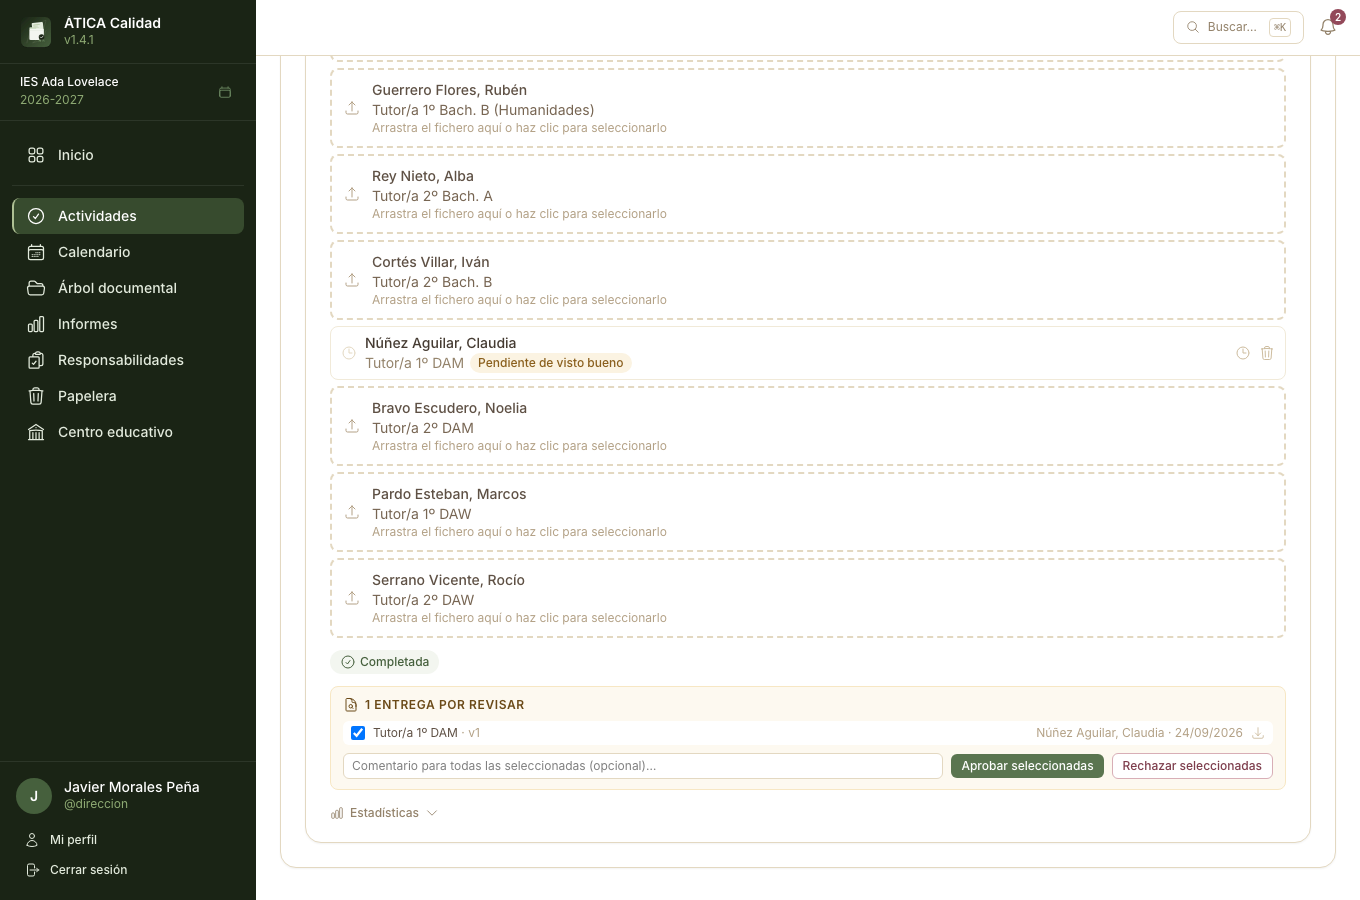
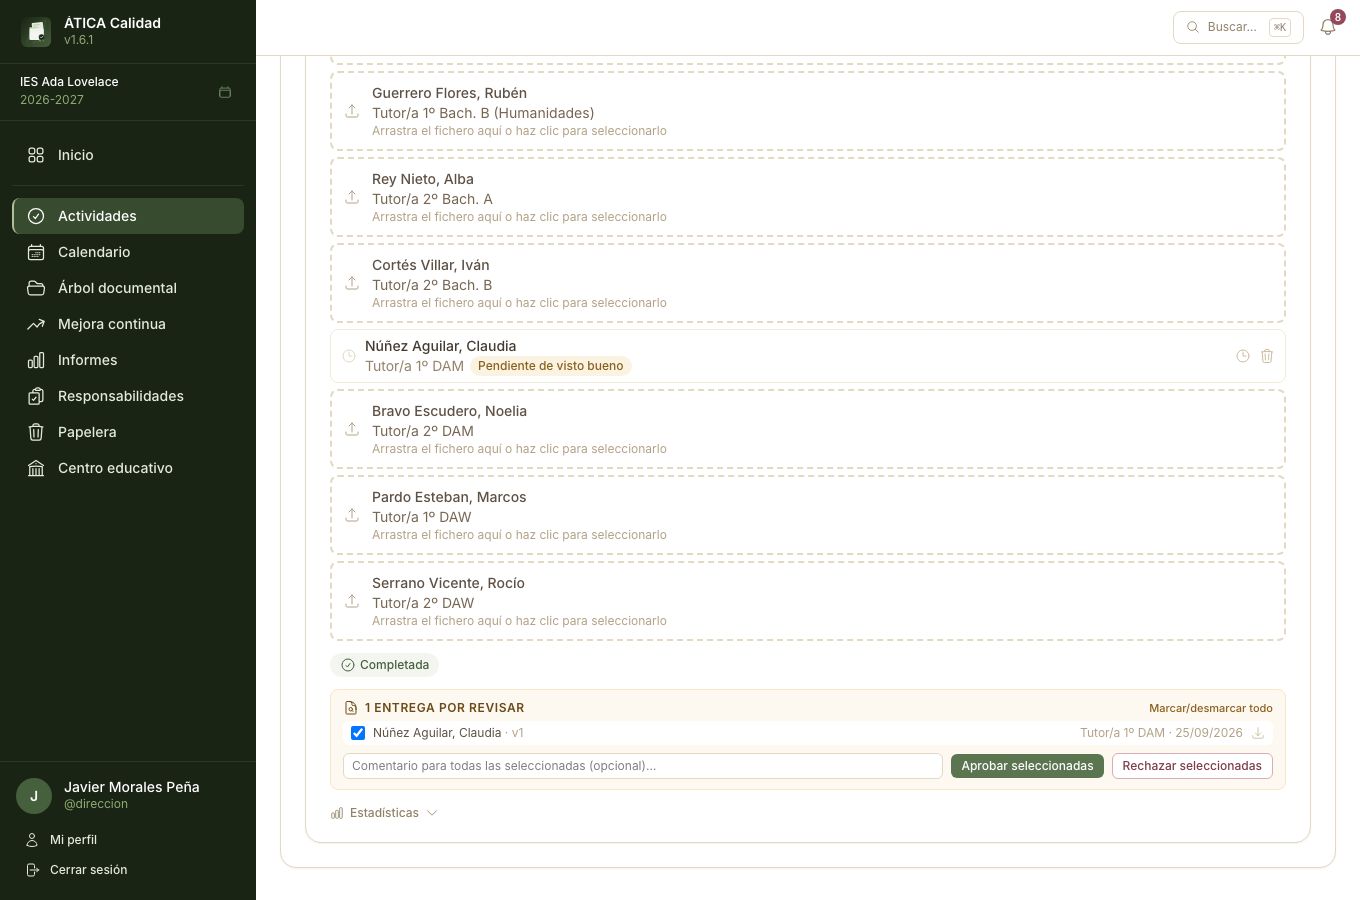
feat(activities): marcar/desmarcar todo por curso, y quién sube primero en una entrega individual
- La revisión conjunta de entregas de una actividad tiene ahora un
  botón «Marcar/desmarcar todo» por grupo (las del curso actual, y
  aparte las de cursos anteriores si queda alguna) — check-all
  controller, sin tocar el envío del formulario.
- En una actividad de ámbito individual, cada fila lleva primero a
  quien la subió (lo que de verdad distingue una entrega de otra) y el
  grupo o perfil que cubre —el mismo rótulo que ya lleva la cabecera del
  grupo— pasa al lado, en el tono discreto donde antes iba el nombre.
  Una actividad por perfil sigue mostrando primero el nombre del propio
  documento.

Claude-Session: https://claude.ai/code/session_01KHybPHgos2WmpT1hbwEeZS

diff --git a/assets/controllers/check_all_controller.js b/assets/controllers/check_all_controller.js
@@ -1,0 +1,15 @@
+import { Controller } from '@hotwired/stimulus';
+
+// A "select/deselect all" toggle for a group of checkboxes, scoped to whichever element carries
+// this controller — several independent groups on the same page (e.g. this year's pending
+// reviews and an earlier year's) each get their own instance and their own toggle button.
+export default class extends Controller {
+    static targets = ['checkbox'];
+
+    toggle() {
+        const shouldCheck = !this.checkboxTargets.every((checkbox) => checkbox.checked);
+        this.checkboxTargets.forEach((checkbox) => {
+            checkbox.checked = shouldCheck;
+        });
+    }
+}

diff --git a/tests/Integration/Controller/ActivityBulkReviewAndReminderTest.php b/tests/Integration/Controller/ActivityBulkReviewAndReminderTest.php
@@ -8,6 +8,7 @@ use App\Entity\AcademicYear;
 use App\Entity\Activity;
 use App\Entity\ActivityCategory;
 use App\Entity\ActivityCompletion;
+use App\Entity\ActivitySubmissionScope;
 use App\Entity\Document;
 use App\Entity\DocumentFile;
 use App\Entity\DocumentRevision;
@@ -130,6 +131,59 @@ final class ActivityBulkReviewAndReminderTest extends ControllerTestCase
         self::assertStringContainsString(ActivityDeadlineChecker::academicYearLabel($last), $content);
         self::assertMatchesRegularExpression('/value="' . $one->getId()->toRfc4122() . '"\s+checked/', $content);
         self::assertDoesNotMatchRegularExpression('/value="' . $two->getId()->toRfc4122() . '"\s+checked/', $content);
+        // Each group ("por revisar" and "de cursos anteriores") gets its own mark/unmark-all toggle.
+        self::assertSame(2, substr_count($content, 'data-controller="check-all"'));
+        self::assertSame(2, substr_count($content, 'data-action="check-all#toggle"'));
+        self::assertSame(2, substr_count($content, 'data-check-all-target="checkbox"'));
+    }
+
+    /**
+     * A by-profile submission's document is named for itself, and stays the primary label with the
+     * uploader as secondary — see the next test for the opposite, individual-scope case.
+     */
+    public function testByProfileSubmissionsKeepTheDocumentNameAsThePrimaryLabel(): void
+    {
+        [$centre, $activity, $reviewer, $one] = $this->reviewScenario();
+        $this->loginAs($reviewer, $centre);
+        $this->client->request('GET', '/actividades?category=' . $activity->getCategory()->getId()->toRfc4122() . '&activity=' . $activity->getId()->toRfc4122());
+        $content = (string) $this->client->getResponse()->getContent();
+
+        $namePos = strpos($content, 'subidor, Nombre');
+        $docPos  = strpos($content, '>' . $one->getDocument()->getName());
+        self::assertNotFalse($namePos);
+        self::assertNotFalse($docPos);
+        self::assertLessThan($namePos, $docPos, 'the document name comes first, the uploader after it');
+    }
+
+    /**
+     * An individual submission's document is only ever named after the role it covers (the same
+     * label the group heading above it already carries) — the uploader is what actually tells one
+     * row apart from the next, so it leads; the role moves to where the uploader used to be.
+     */
+    public function testIndividualSubmissionsLeadWithTheUploaderAndMoveTheRoleAside(): void
+    {
+        $centre   = $this->centre();
+        $category = (new ActivityCategory())->setEducationalCentre($centre)->setName('Categoría');
+        $section  = (new DocumentSection())->setEducationalCentre($centre)->setName('Sección');
+        $folder   = (new Folder())->setDocumentSection($section)->setName('Entregas');
+        $profile  = (new SpecificProfile())->setEducationalCentre($centre)->setName('Revisor');
+        $folder->addReviewProfile($profile);
+        $activity = (new Activity())->setCategory($category)->setTitle('Plan de Acción Tutorial')->setStart(1, 9)->setEnd(30, 6)->setFolder($folder)->setSubmissionScope(ActivitySubmissionScope::Individual);
+        $reviewer = $this->teacher('revisor');
+        $uploader = $this->teacher('subidor');
+        $this->persist($centre, $category, $section, $folder, $profile, $activity, $reviewer, $uploader, new SpecificProfileAssignment($profile, null, $reviewer));
+        $this->pendingRevision($folder, 'Tutor/a 1º ESO A', $uploader);
+
+        $this->loginAs($reviewer, $centre);
+        $this->client->request('GET', '/actividades?category=' . $activity->getCategory()->getId()->toRfc4122() . '&activity=' . $activity->getId()->toRfc4122());
+        $content = (string) $this->client->getResponse()->getContent();
+
+        self::assertStringContainsString(' checked', $content);
+        $namePos = strpos($content, 'subidor, Nombre');
+        $rolePos = strpos($content, 'Tutor/a 1º ESO A');
+        self::assertNotFalse($namePos);
+        self::assertNotFalse($rolePos);
+        self::assertLessThan($rolePos, $namePos, 'the uploader comes first, the role after it');
     }
 
     public function testApprovesTheTickedSubmissionsOfTheActivityAndIgnoresAnyOtherId(): void

diff --git a/docs/manual/08-actividades.md b/docs/manual/08-actividades.md
@@ -158,12 +158,18 @@ aparece encima de «Mis entregas».
 ### Revisar varias entregas a la vez {#revisar-varias-entregas}
 
 Quien revisa la carpeta de la actividad ve, además, un recuadro **«N entregas por revisar»** con
-todas las entregas pendientes de visto bueno, cada una con quién la subió, la fecha y su descarga.
-Todas vienen marcadas: basta con desmarcar las que no se quieran tocar, escribir si se quiere un
-comentario común y pulsar **Aprobar seleccionadas** o **Rechazar seleccionadas**. Rechazar pide
+todas las entregas del curso actual pendientes de visto bueno, cada una con quién la subió, la
+fecha y su descarga (en una entrega individual, quién la subió es lo primero que se ve; el grupo o
+perfil al que corresponde queda al lado, en un tono más discreto). Todas vienen marcadas: basta con
+desmarcar las que no se quieran tocar —o pulsar **Marcar/desmarcar todo**—, escribir si se quiere
+un comentario común y pulsar **Aprobar seleccionadas** o **Rechazar seleccionadas**. Rechazar pide
 confirmación, porque cada docente recibe un aviso para volver a entregarla. El efecto es el mismo
 que revisar una por una: cambia la versión en vigor, se anota en el registro de actividad y se avisa
 a quien la subió.
+
+Si queda alguna pendiente de un curso anterior, aparece aparte, con su curso y sin marcar —para no
+aprobarla o rechazarla sin querer junto con las del curso actual—, con su propio **Marcar/desmarcar
+todo**.
 
 ![Recuadro de revisión en bloque, con las entregas pendientes marcadas y los botones de aprobar y rechazar](img/actividades-revision-bloque.png)
 
